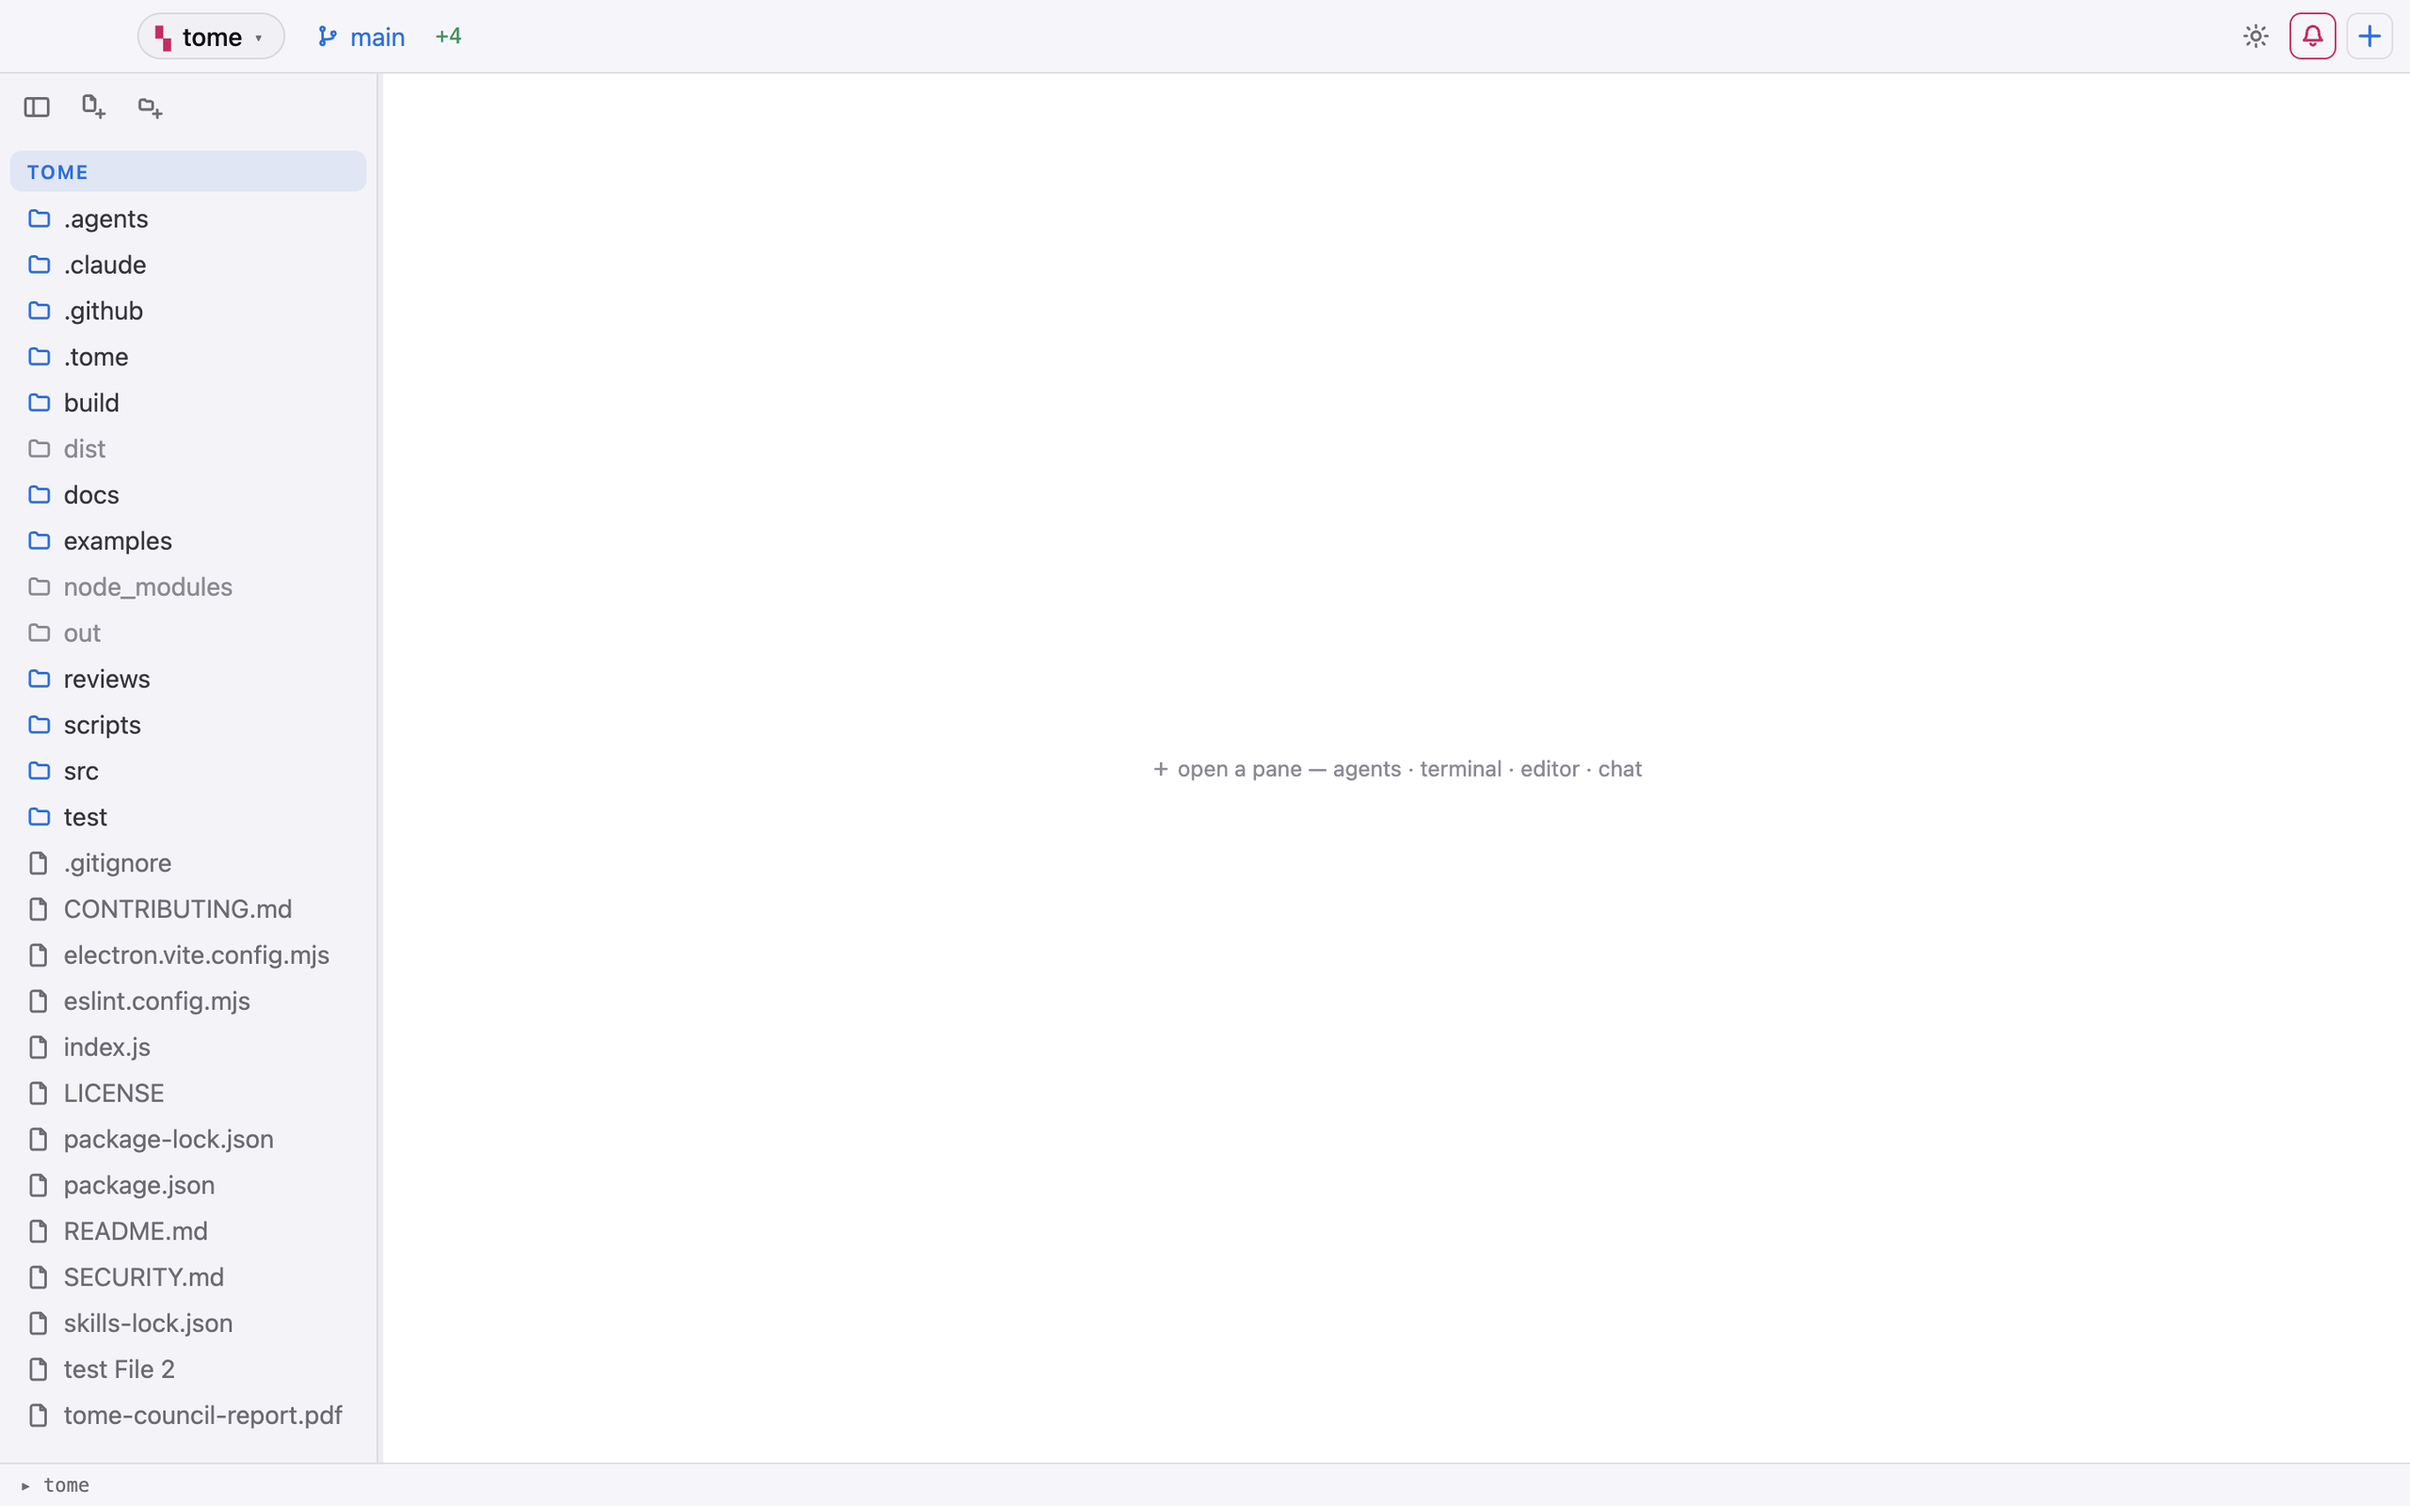
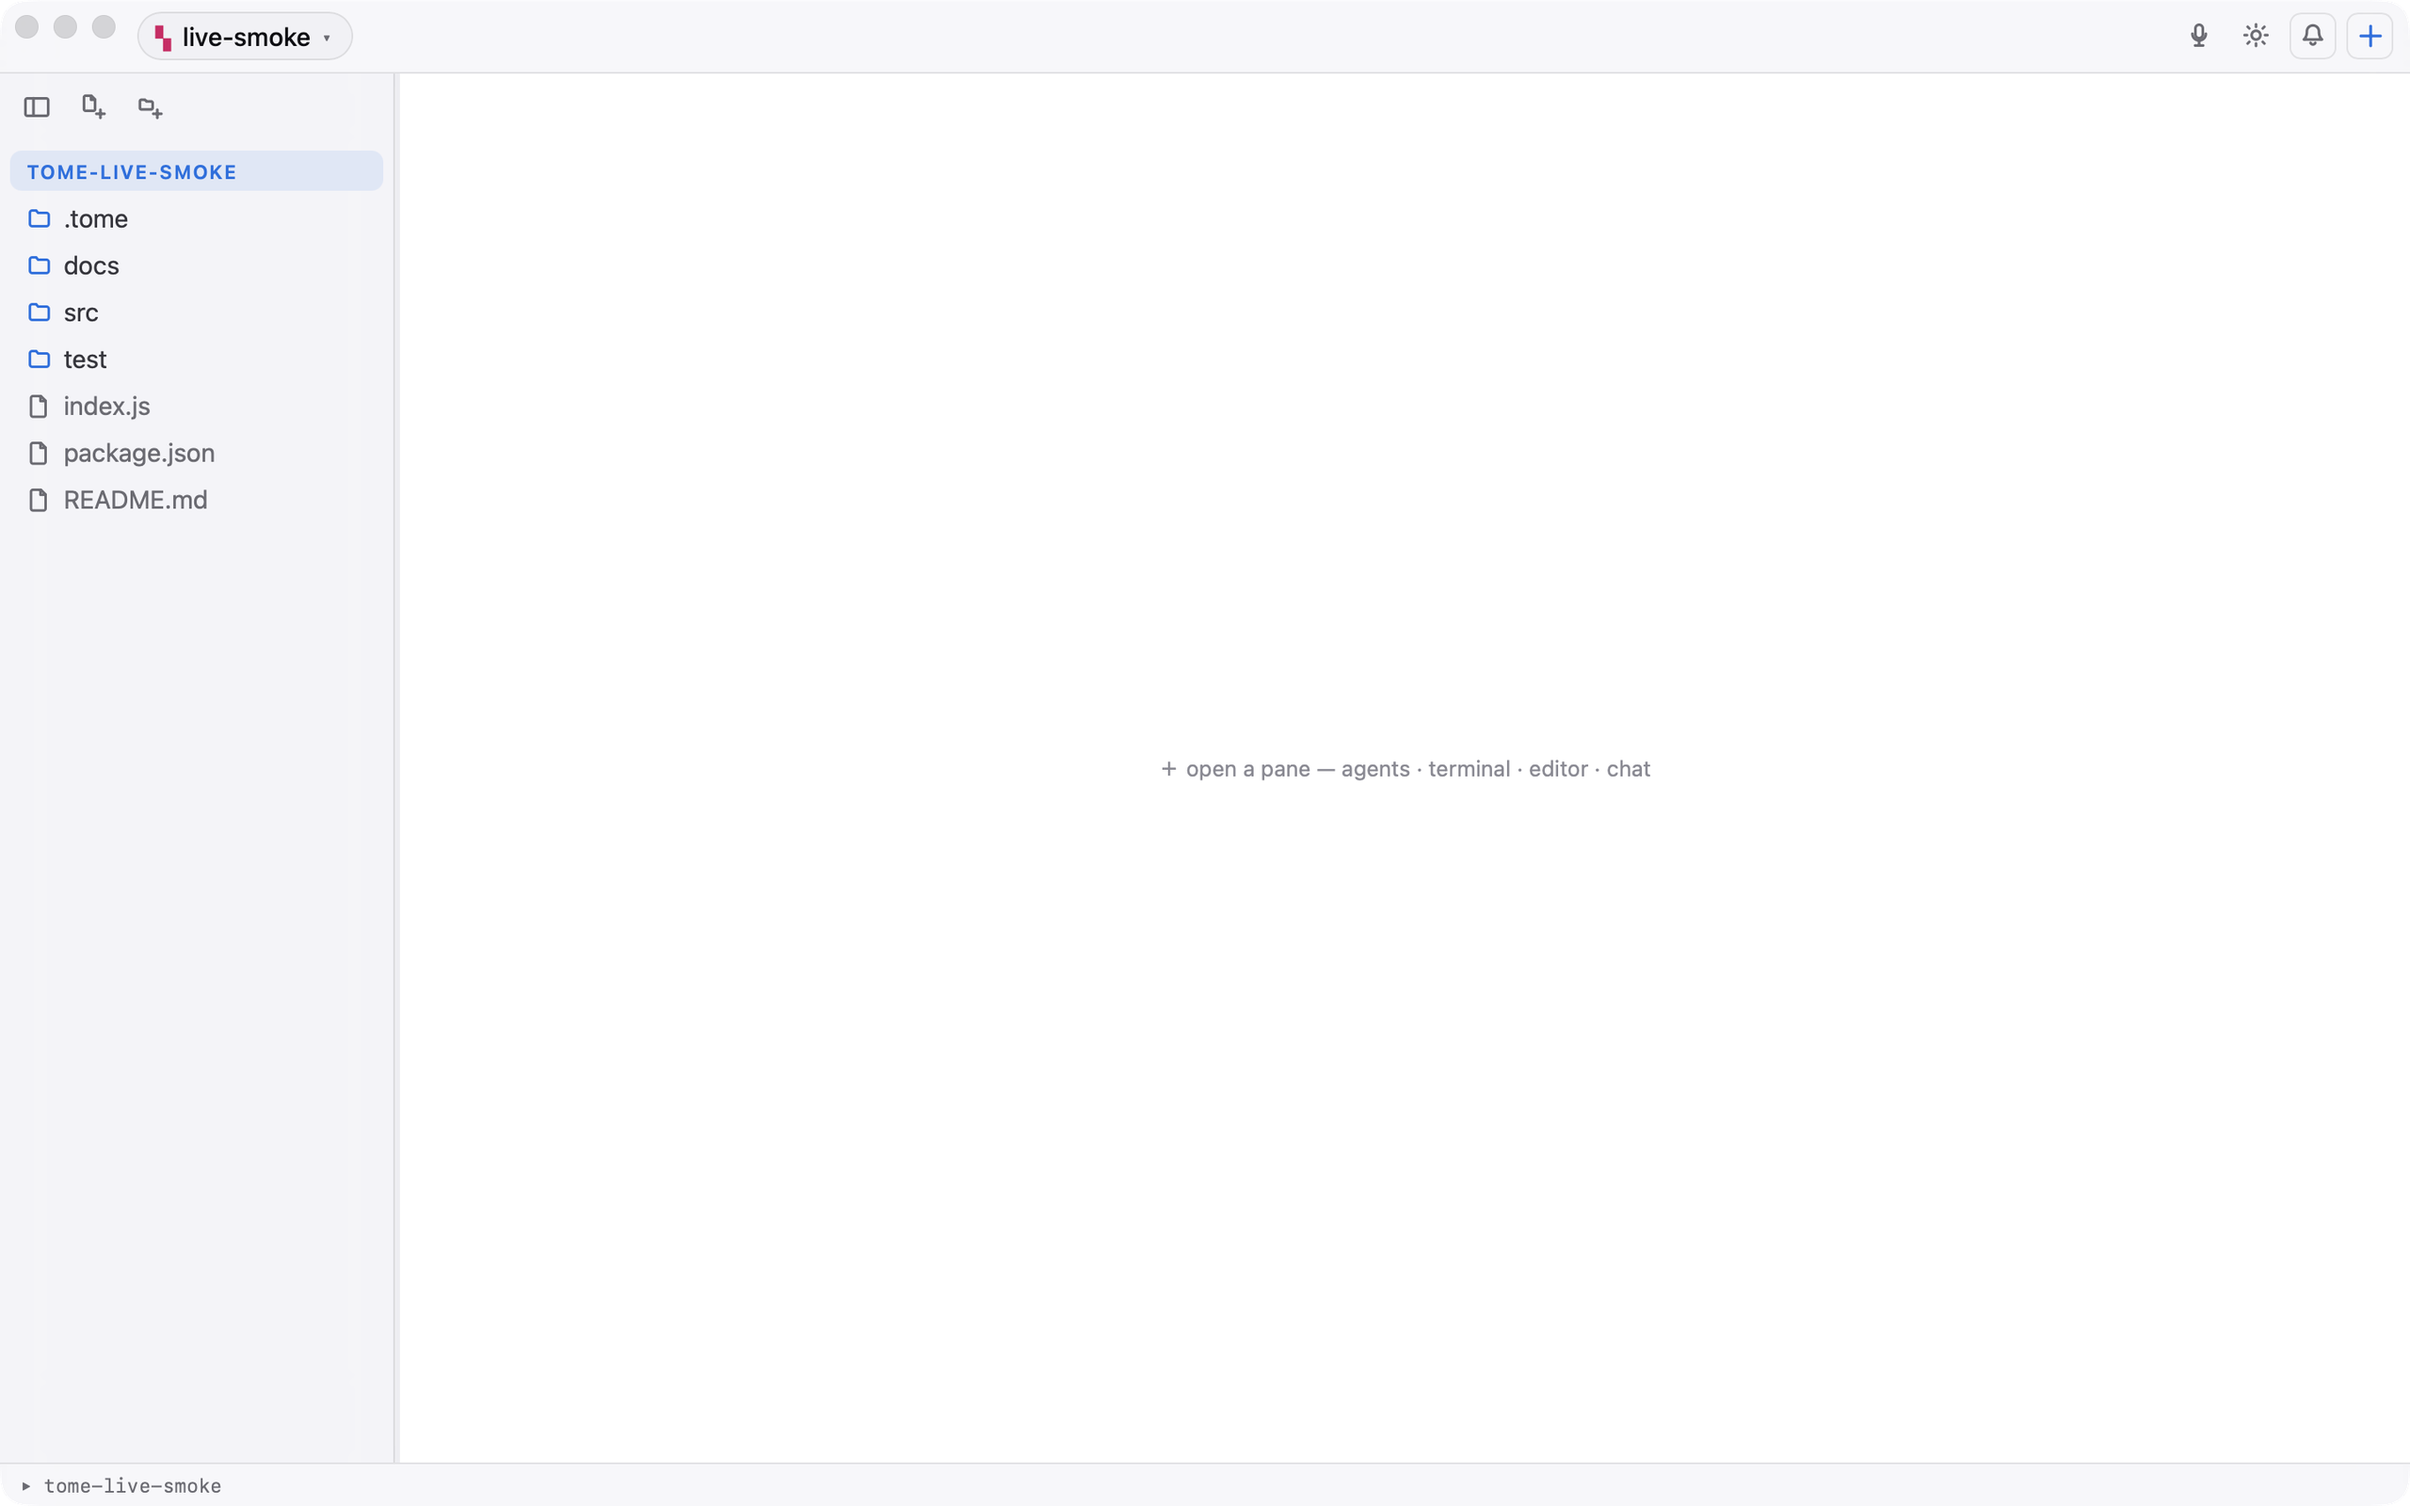
docs: refresh repo images to the current Tauri build; add handover
All six screenshots/poster re-captured from the running app (current
main, post-Electron v0.2.0 UI) instead of the old Electron-era shots:
screenshot.png (dark workspace: gapped terminal, editor, chat, brain),
tour-workspace (light empty grid), tour-plus-menu (＋ menu, both safety
toggles on), tour-node-editor (Edit node on gather), tour-flow-saved
(3-node release-notes canvas), flow-creation-poster. tour page alt
text/figcaptions updated to match.

How they were made is in docs/IMAGE-REFRESH-HANDOVER.md — the captures
were driven by WebviewWindow::eval() from a temp Rust hook (synthetic
OS clicks are dropped without Accessibility permission), using a demo
workspace under /tmp and dev-only TOME_SHOT mode.

src/renderer/renderer.js: shot-mode demo panes now fall back to
activeWorkspace().folders[0] and only spawn when the dock is empty, so
a seeded layout can drive a dedicated tour shot.

Also flags a real bug found along the way: restoreLayout's stale-panel
sweep drops a restored flow pane (its init is async), so a saved layout
with a flow tab loses it on restart — see the handover.

diff --git a/docs/how-tome-works.html b/docs/how-tome-works.html
@@ -388,8 +388,8 @@ main { padding-bottom: 40px; }
 <h2 id="h-create" tabindex="-1">Grow the tree</h2>
 <p>Click the new-file button in the tree header, or ＋ → New file…, and type a path relative to the active root — src/review/verdict.js. Tome creates the parent folders first, then the file itself with an exclusive write, and opens it in an editor pane. A name that can't work comes back as a sentence — "path may not contain '..'" — rather than a raw <code>ENOENT</code>, and an existing file toasts "already exists" instead of being clobbered.</p>
 <figure class="media">
-<figcaption id="cap-create-shot"><span class="badge">png</span> The ＋ menu, live: three agent kinds, both safety defaults on, panes and files — and Flow diagram…</figcaption>
-<div class="shot"><img src="tour-plus-menu.png" width="2560" height="1600" loading="lazy" alt="The ＋ menu open in Tome: claude, opencode and pi listed as agents; 'spawn agents air-gapped' ON; 'assistant may run commands' ON; assistant chat, terminal, brain; Open file, New file, New folder, Flow diagram; event log; preferences."></div>
+<figcaption id="cap-create-shot"><span class="badge">png</span> The ＋ menu, live: the installed agent kinds, both safety defaults on, panes and files — and Flow diagram…</figcaption>
+<div class="shot"><img src="tour-plus-menu.png" width="2560" height="1600" loading="lazy" alt="The ＋ menu open in Tome: claude and opencode listed as agents; 'spawn agents air-gapped' ON; 'assistant may run commands' ON; assistant chat, terminal, brain; Open file, New file, New folder, Flow diagram; event log; preferences."></div>
 </figure>
 <figure class="board"><svg class="sb" viewBox="0 0 520 148" role="img" aria-label="Sketch of the new-file prompt with the path src/review/verdict.js typed in, and the tree it produces: src, then review, then verdict.js — parents made first, the file itself written with an exclusive flag that never overwrites." focusable="false"><rect class="sb-box" x="6" y="8" width="508" height="32" rx="7"/><text class="sb-t sb-xs" x="18" y="29">new file</text><text class="sb-tb" x="74" y="29">src/review/verdict.js</text><rect class="sb-caret" x="212" y="17" width="1.5" height="14"/><path class="sb-line" d="M 30 76 V 128 M 48 118 H 58"/><text class="sb-tb" x="20" y="70">&#9662; src</text><text class="sb-tb" x="40" y="98">&#9662; review</text><text class="sb-tb" x="62" y="126">verdict.js</text><path class="sb-line sb-dash" d="M 160 62 H 246"/><text class="sb-t sb-xs" x="256" y="66">1 &#183; made first, if missing</text><path class="sb-line sb-dash" d="M 160 90 H 246"/><text class="sb-t sb-xs" x="256" y="94">2 &#183; then this one</text><path class="sb-line sb-dash" d="M 160 118 H 246"/><text class="sb-t sb-xs" x="256" y="122">3 &#183; 'wx' — never overwrites</text></svg></figure>
 <div class="why">

diff --git a/src/renderer/renderer.js b/src/renderer/renderer.js
@@ -110,17 +110,25 @@ mark('module evaluation start')
   // whisper-cli model warm-up for push-to-talk; main gates it on the
   // 'voice-warmup' store key (default off) and swallows all failures.
   tome.stt.warmup().catch(() => {})
-  if (tome.shotMode && wsState.activeRoot) {
-    // screenshot/demo mode: open a representative set of panes
-    const id = `pty-${++counters.seq}`
-    dock.addPanel({
-      id,
-      component: 'terminal',
-      title: `⛨ zsh — demo`,
-      params: { ptyId: id, kind: 'terminal', cwd: wsState.activeRoot, airgap: true },
-    })
-    openFile(`${wsState.activeRoot}/package.json`)
-    addChat()
-    addBrain()
+  if (tome.shotMode && dock.panels.length === 0) {
+    // screenshot/demo mode: open a representative set of panes against the
+    // active workspace's first folder — only when no layout restored one
+    // (a pre-seeded layout file drives the dedicated tour shots).
+    // activeRoot starts null (it is only set by clicking a tree root), so
+    // fall back through activeWorkspace — the same chain paneCwd() uses
+    // for every real pane spawn.
+    const root = wsState.activeRoot || activeWorkspace()?.folders[0]
+    if (root) {
+      const id = `pty-${++counters.seq}`
+      dock.addPanel({
+        id,
+        component: 'terminal',
+        title: `⛨ zsh — demo`,
+        params: { ptyId: id, kind: 'terminal', cwd: root, airgap: true },
+      })
+      openFile(`${root}/package.json`)
+      addChat()
+      addBrain()
+    }
   }
 })()

diff --git a/docs/IMAGE-REFRESH-HANDOVER.md b/docs/IMAGE-REFRESH-HANDOVER.md
@@ -1,0 +1,66 @@
+# Image Refresh — Handover
+
+**Date:** 2026-08-15 · **Branch:** (PR: refresh repo images) · **Status:** captures done, images committed; handoff for review/QA + remaining bits
+
+## What this task was
+
+Refresh every image in the repo so it shows the **current Tauri build** (post-Electron-removal v0.2.0 UI) instead of the old Electron-era screens. The images:
+
+| File | Old (Electron era) | New (this session) |
+|---|---|---|
+| `docs/screenshot.png` | light, plain workspace | **dark** workspace: tree, gapped `zsh — demo` terminal with the "model APIs only" strip, `package.json` editor, assistant chat with a transcript, brain vault |
+| `docs/tour-workspace.png` | light, empty grid | light, empty grid with "＋ open a pane — agents • terminal • editor • chat" + tree of a demo project (`src/ test/ docs/ index.js package.json README.md`) |
+| `docs/tour-plus-menu.png` | light, ＋ menu | **dark**, ＋ menu open with demo panes behind: claude + opencode, "spawn agents air-gapped ON", "assistant may run commands ON", panes/files/flow/events/settings |
+| `docs/tour-node-editor.png` | light, Edit node | **dark**, Edit node dialog on `gather`: Kind claude, Model haiku, instructions, output `list`, Save/Cancel |
+| `docs/tour-flow-saved.png` | light, flow canvas | **dark**, `release-notes.flow.json` canvas: gather (CLAUDE·HAIKU) → draft (CLAUDE) → review (CLAUDE), wired, tab open above |
+| `docs/flow-creation-poster.png` | old UI | new flow canvas + tree, 1280×800 poster frame |
+| `docs/how-tome-works.html` | — | alt text / figcaption updated to match the new captures |
+
+All images captured from the **running app** (dev build of current `main`), not mocked up.
+
+## How the captures were produced (reproducible recipe)
+
+The hard part: **synthetic OS mouse clicks don't work** — the machine's Terminal/pi process lacks Accessibility permission, so `CGEvent` injection is silently dropped (osascript returns `-25211`/`-1728`). The reliable driver is **`WebviewWindow::eval()` from Rust**, which runs real DOM clicks in the page.
+
+1. **Fixture workspace** (scratch, outside git): `/tmp/tome-live-smoke/`
+   - `package.json`, `index.js`, `README.md`, `src/main.py`, `test/test_app.py`, `docs/api.md`
+   - `.tome/flows/release-notes.flow.json` — the 3-node demo flow. **Schema gotchas:** nodes need `outputs: [{name}]` / `inputs: [{name}]` (not `produces`/`needs`), edges need `id` + `fromOutput`/`toInput`, and **x/y positions** (or the three cards stack on top of each other).
+
+2. **Shot HOME** (app data): `/tmp/tome-shot-home/Library/Application Support/tech.abantu.tome/`
+   - `workspaces.json` → active workspace `live-smoke` → `/tmp/tome-live-smoke`
+   - `theme.json` → `"dark"` (screenshot/others) / `"light"` (tour-workspace, in `/tmp/tome-shot-ws/`)
+   - `onboarded-v1.json` → `true`, `chat-log-chat-2.json` → the demo transcript, `conductor-run.json` → `true` (menu shows "assistant may run commands ON")
+   - Brains at `/tmp/tome-shot-home/Tome/Brains/live-smoke/` (AGENTS.md, release-checklist.md, flow-ideas.md)
+
+3. **Launcher env** (`/tmp/tome-shot-env.sh`): `HOME=/tmp/tome-shot-home`, `RUSTUP_HOME`/`CARGO_HOME` pinned, `PATH` explicit, `TOME_SHOT=1` (dev-only shot mode: skips the lock/setup wizard).
+
+4. **Temp driver hooks** (added, used, then **reverted** — do not ship):
+   - `src-tauri/src/lib.rs` `.setup()`: `w.show()/unminimize()/set_focus()` + a thread that after 12 s runs `w.eval(...)` keyed on `TOME_SHOT_PLAN` (`menu` → `document.getElementById('btn-add').click()`; `flow`/`node` → open the flow + `dock.fromJSON` reposition to full width + `openNodeEditor`).
+   - `src/renderer/renderer.js`: expose `window.__shot = { dock, openFile }`.
+   - Window capture: `screencapture -o -x -l <CGWindowID>` at 1440×900 (retina → 2880×1800 png). Tour images downscaled 2880×1800 → 2560×1600 (exact 16:10). Poster center-cropped to 1280×800.
+
+5. **Permanent improvements kept** (both behind `tome.shotMode`, dev-only):
+   - Shot-mode demo panes now fall back to `activeWorkspace().folders[0]` when `activeRoot` is null.
+   - Demo panes only spawn when the dock is empty (so a pre-seeded layout file can drive a dedicated tour shot).
+
+## Pitfalls hit (recorded so the next person doesn't re-fight them)
+
+- **Synthetic clicks need Accessibility** — don't try; use `w.eval()`.
+- **The flow panel gets dropped on layout restore** — `restoreLayout`'s stale-panel sweep runs before `FlowPanel.init` (async fs read) connects its element, so a restored flow tab silently vanishes. This is arguably a **real app bug** (a saved layout with a flow pane loses it on restart). Not fixed this session — worth its own issue. Workaround: the shot driver opens the flow at runtime instead of relying on restore.
+- **The app overwrites the layout store on every boot** (`scheduleLayoutSave`, 800 ms after restore) and on quit — write a seeded layout only after `pkill -9` (SIGTERM runs the quit-time save).
+- **`bootAuth` shows the setup screen whenever auth is unconfigured**, not only when locked — `TOME_SHOT=1` short-circuits it; without shot mode you get the wizard.
+- **`universal-apple-darwin`** etc. — irrelevant here, but the release-pipeline PRs (#5–#9) already fixed the release image path.
+
+## What's left
+
+- [ ] **Visual QA in a browser** — open `docs/how-tome-works.html` (or the GitHub Pages build) and eyeball each step's screenshot: the dark-mode set is a deliberate look change from the old light set; confirm the tour page reads well (the workspace step is still light by design — the figcaption says "light theme because the OS was light").
+- [ ] **Decide on the dark/light mix** — screenshot + plus-menu/node/flow are dark, tour-workspace is light. If the whole tour should be one mode, re-run the recipe with `theme.json` flipped and re-crop.
+- [ ] **flow-creation.mp4** — the video itself still shows the old UI (only its poster was refreshed). Re-record the "create a flow" walkthrough against current main, then regenerate the poster from the new video (or keep the current poster if the video isn't re-shot).
+- [ ] **Fix the flow-restore bug** (see Pitfalls) — a persisted layout containing a flow pane loses it on restart. File it or fix `restoreLayout`'s stale sweep to tolerate async-init components.
+- [ ] **Clean up scratch dirs** — `/tmp/tome-live-smoke`, `/tmp/tome-shot-home`, `/tmp/tome-shot-ws`, `/tmp/tome-shot-env.sh`, the `click-*.swift`/`ocr*.swift` helpers are all outside git; delete when no longer needed. The repo itself contains **no** scratch fixtures (the demo project lives only in `/tmp`).
+- [ ] **Confirm the PR diff is clean** — should be exactly: 6 images + `docs/how-tome-works.html` + the shot-mode improvement in `src/renderer/renderer.js`. No `src-tauri` changes (temp hooks reverted).
+
+## Verification status
+
+- `npm test` 282/282 ✓ · `npm run build` ✓ · `npm run lint` ✓ (run after the renderer change).
+- Every new image OCR-verified to contain the expected UI (menu items, node editor fields, three flow cards, "open a pane" placeholder, "model APIs only" strip).
